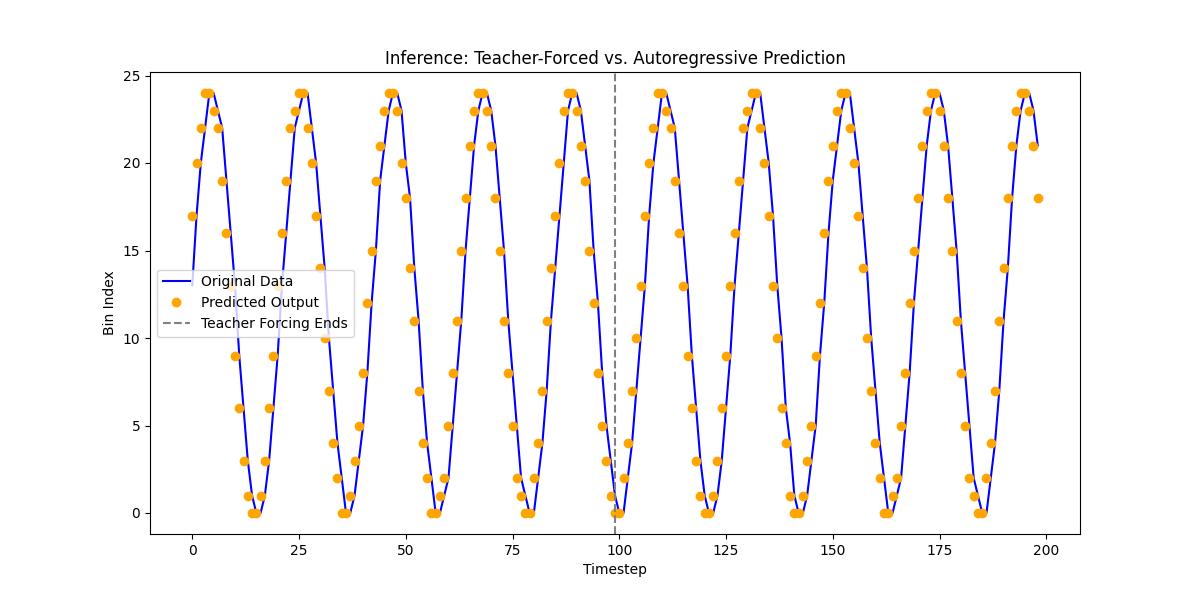
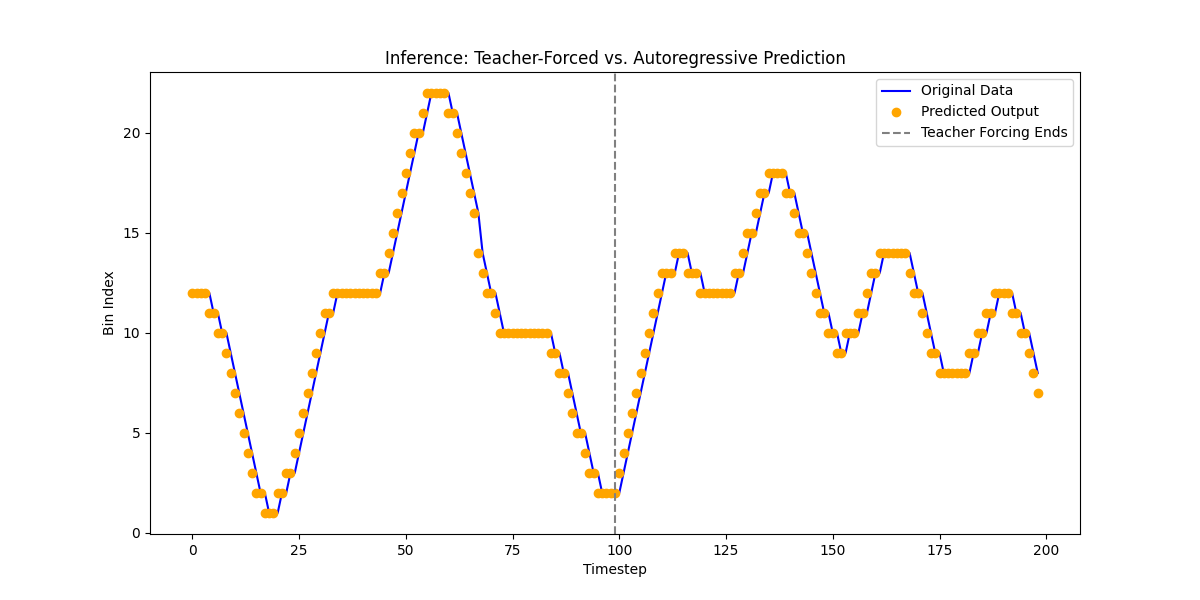
we need to stabilize

diff --git a/src/main.py b/src/main.py
@@ -6,14 +6,13 @@ import wandb
 from tqdm import tqdm
 import matplotlib.pyplot as plt
 from pscan import pscan
-from nonlinear_through_time_delay_main import DelayedMLP
 from synaptic_delay import compute_synaptic_delay
 
 
 # Constants
-NUM_SEQUENCES = 1
+NUM_SEQUENCES = 10
 SEQUENCE_LENGTH = 200
-NUM_MODES = 1
+NUM_MODES = 3
 FREQ_RANGE = (1.5, 10.5)
 AMP_RANGE = (0.5, 1.5)
 PHASE_RANGE = (0, 2 * np.pi)
@@ -23,7 +22,7 @@ HIDDEN_DIM = 64
 CHANNELS = NUM_BINS
 TIMESTEPS = SEQUENCE_LENGTH
 LEARNING_RATE = 1e-2
-NUM_EPOCHS = 1000
+NUM_EPOCHS = 2000
 OUTPUT_DIM = NUM_BINS
 
 DEVICE = torch.device("cuda" if torch.cuda.is_available() else "cpu")
@@ -77,8 +76,8 @@ class SSMSynapticDelayLayer(nn.Module):
         x = x.transpose(0, 1)
         assert x.shape == (x.shape[0], BATCH_SIZE, self.input_dim)
         
-        x_delayed = compute_synaptic_delay(x, self.delay_proj)
-        u = self.U(x_delayed)
+        # x_delayed = compute_synaptic_delay(x, self.delay_proj, max_delay=1)
+        u = self.U(x)
         b = torch.sigmoid(self.B(x))
 
         # transpose as pscan needs (BATCH_SIZE, TIMESTEPS, CHANNELS)

diff --git a/src/synaptic_delay.py b/src/synaptic_delay.py
@@ -1,7 +1,7 @@
 import torch
 import torch.nn.functional as F
 
-def compute_synaptic_delay(x, delay_proj):
+def compute_synaptic_delay(x, delay_proj, max_delay=None):
     """
     Args:
         x: Input tensor of shape [batch, seq_len, dim]
@@ -13,7 +13,9 @@ def compute_synaptic_delay(x, delay_proj):
     # print(x)
     # print()
     B, L, D = x.shape
-    max_delay = delay_proj.out_features
+
+    if max_delay is None:
+        max_delay = delay_proj.out_features
 
     # 1. Project to get delay logits and apply softmax
     delay_logits = delay_proj(x)  # [B, L, max_delay]
